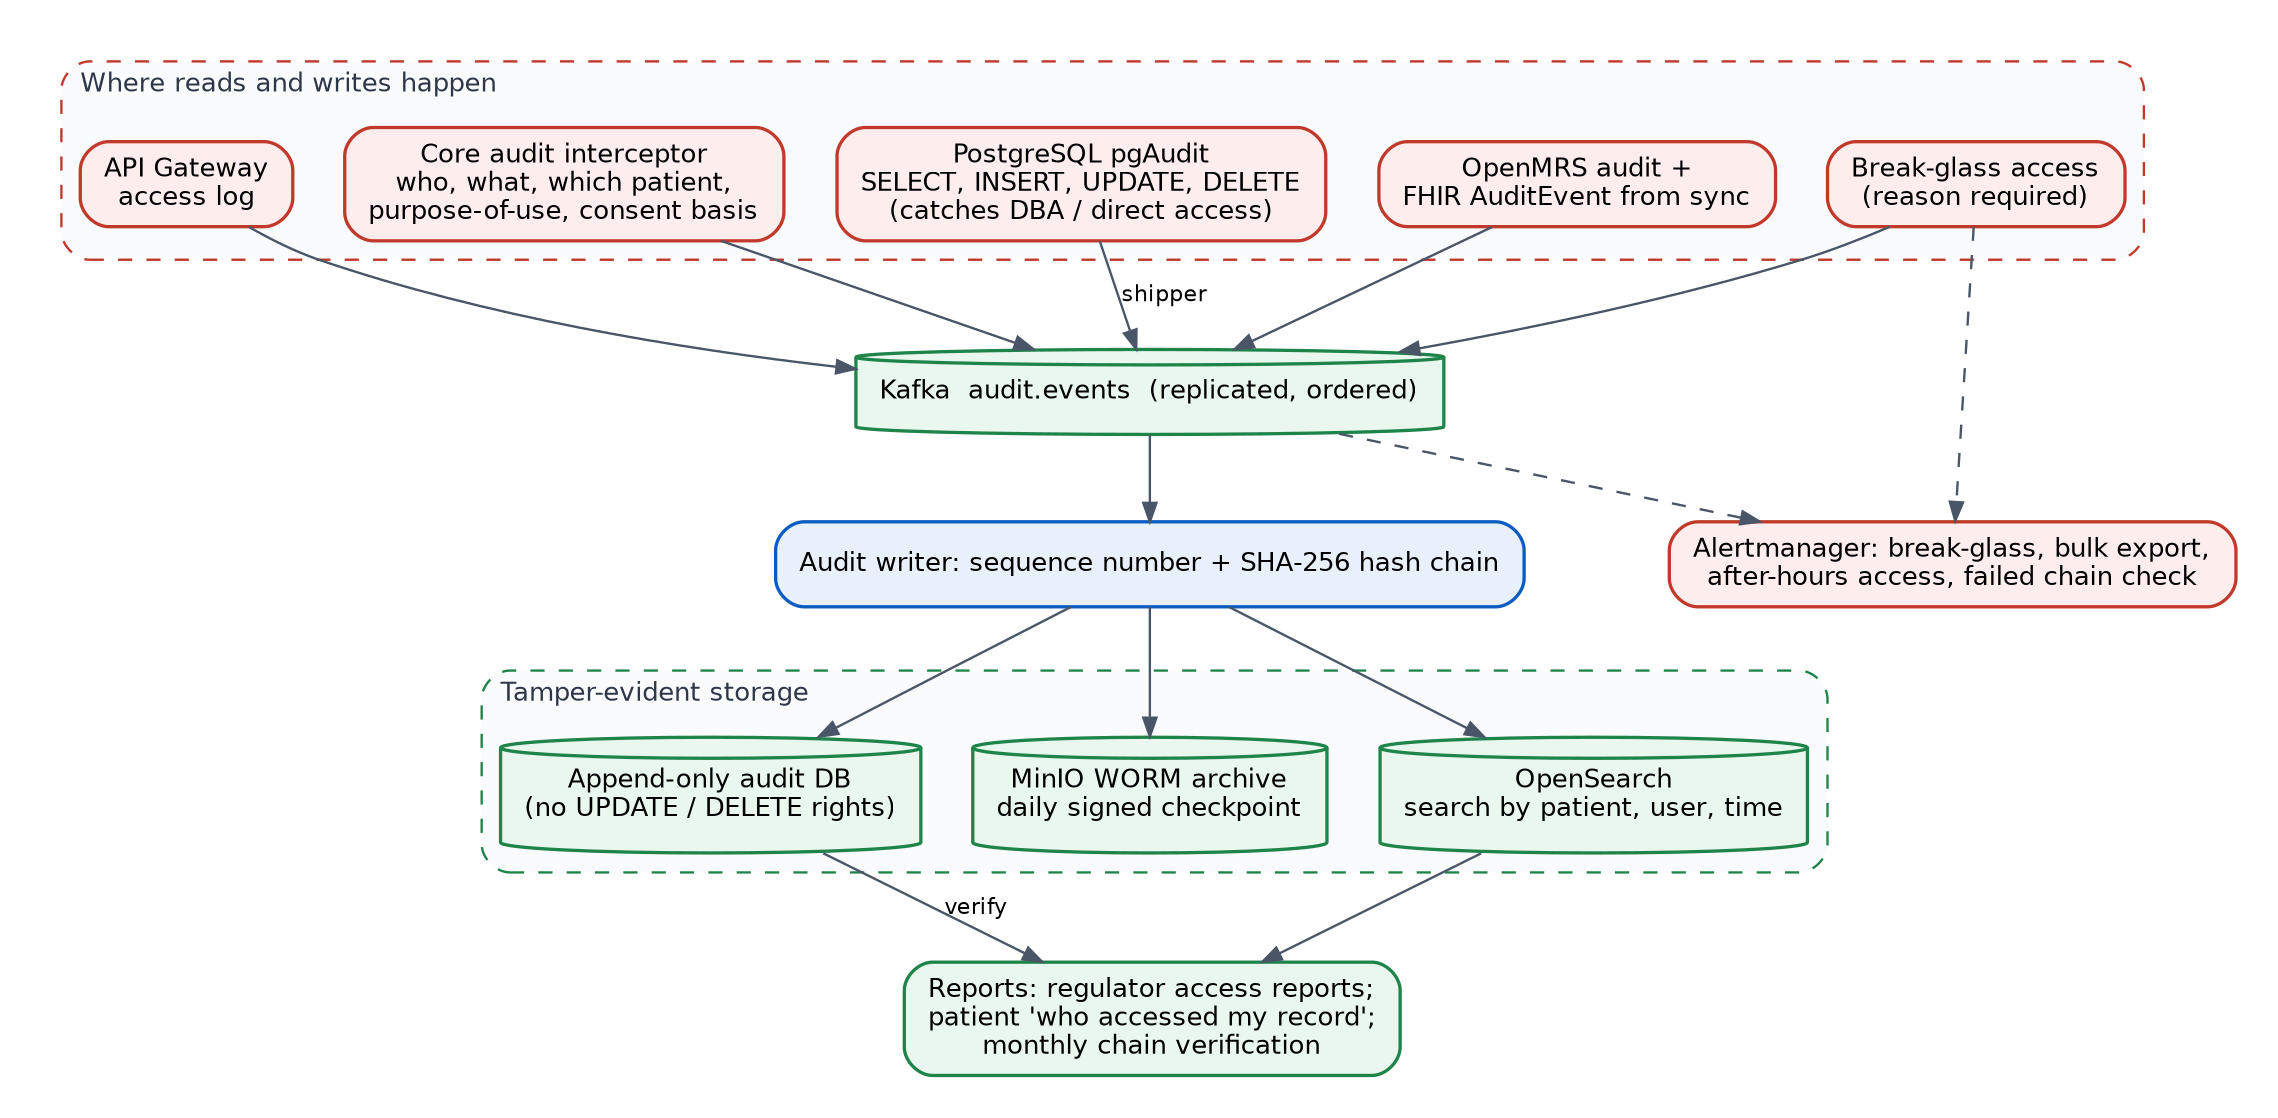
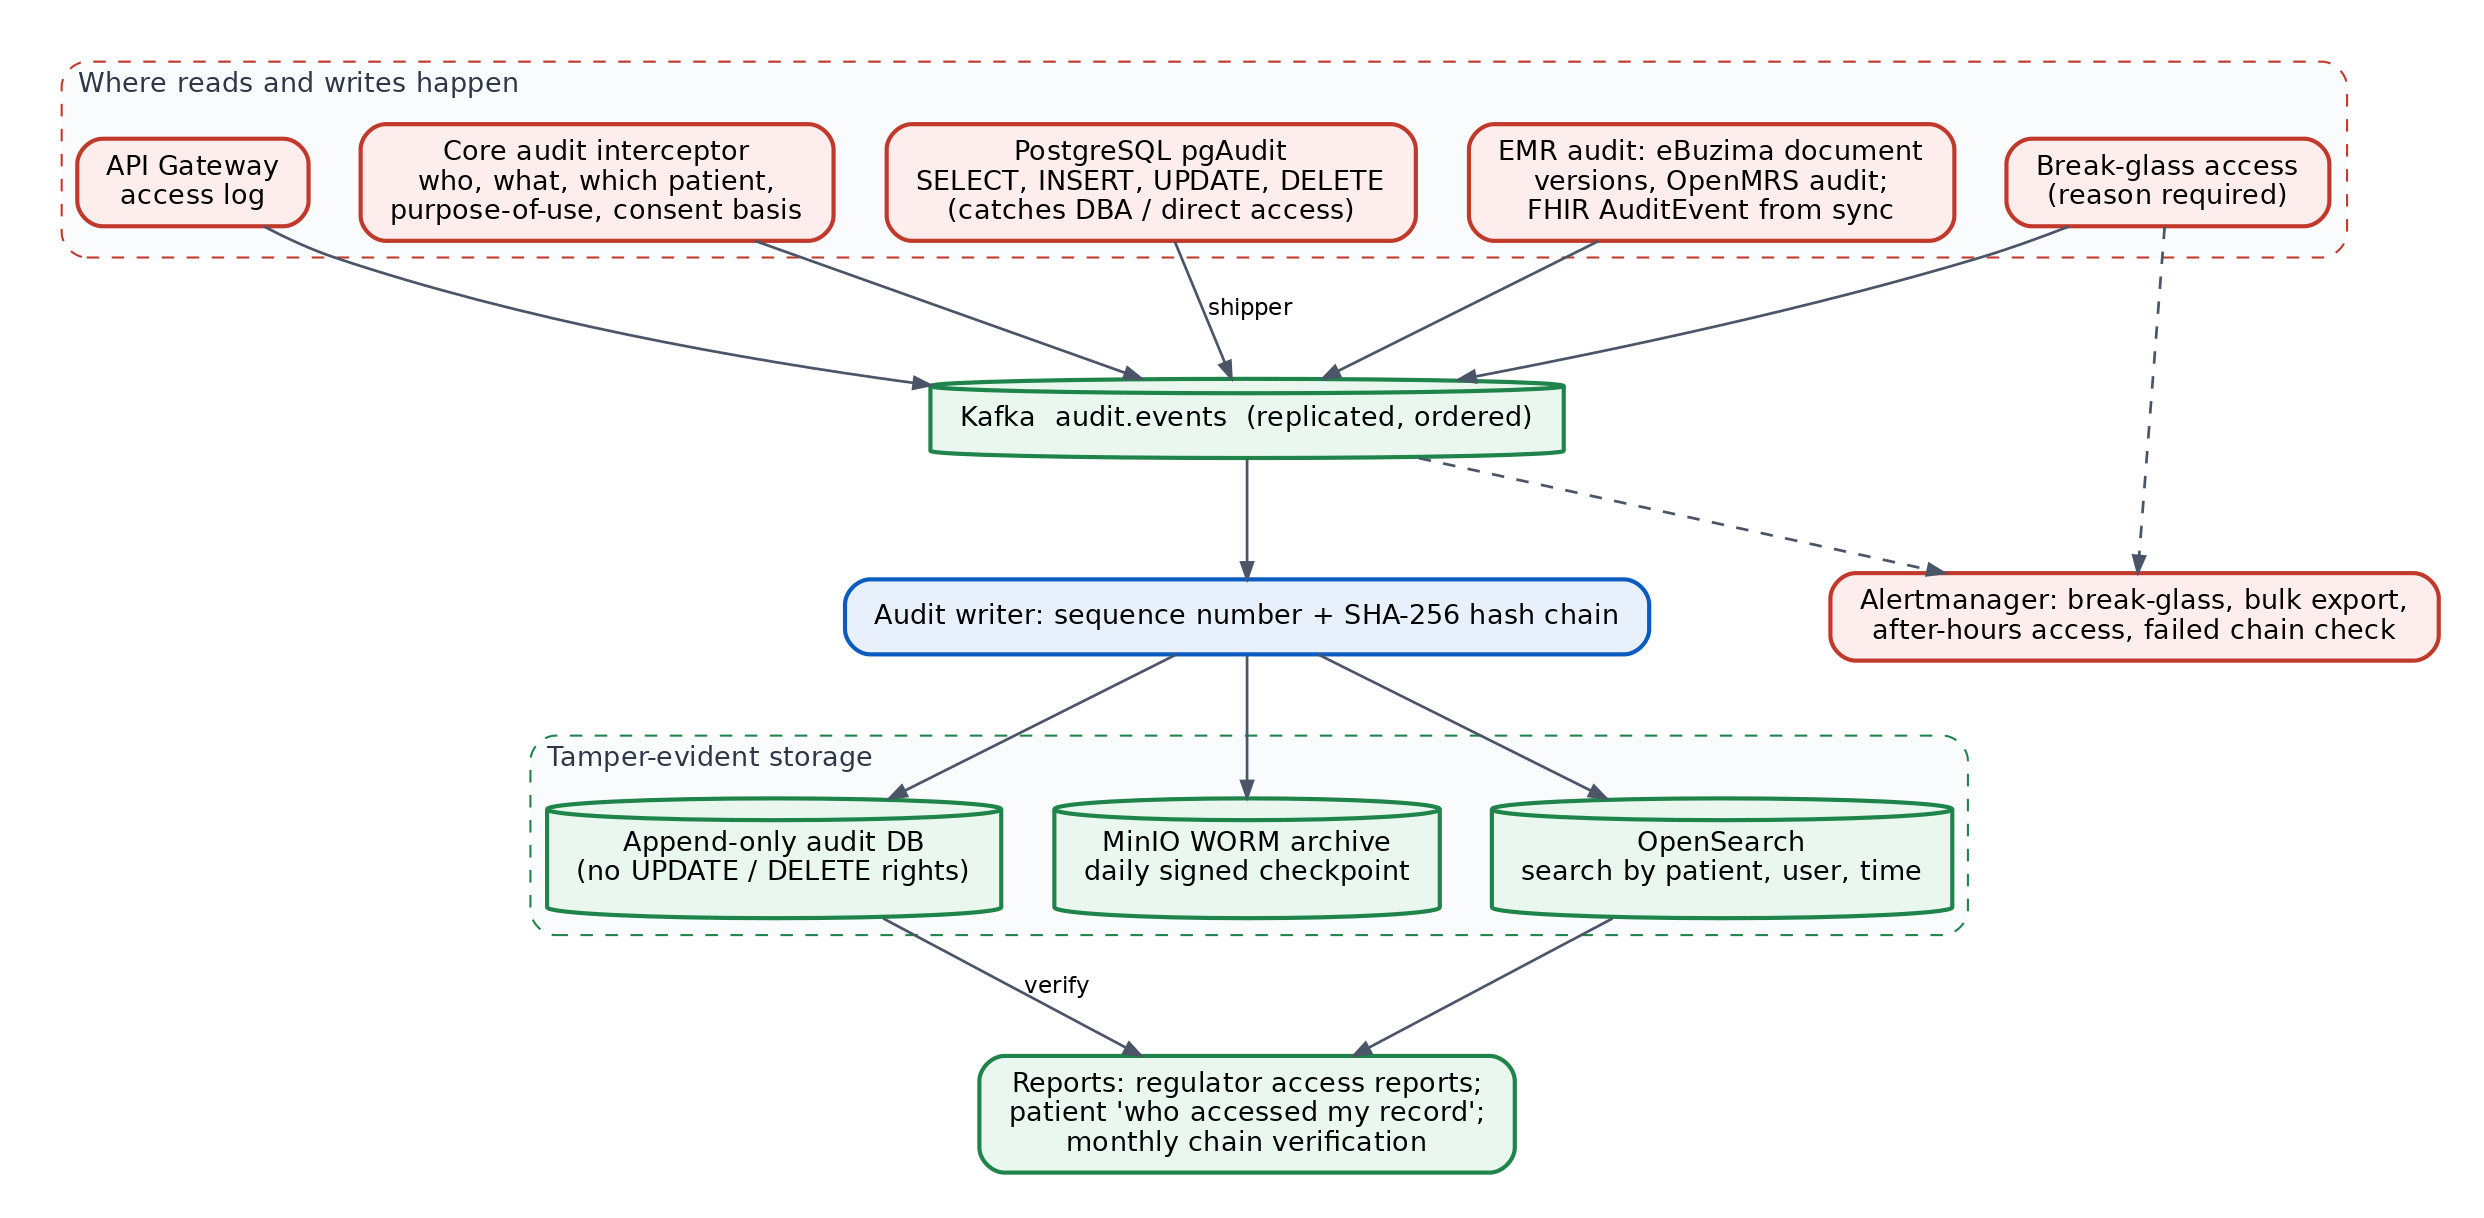
Diagrams: bring the folder in line with design document v1.3
Figures 1, 8, 9 and 13 redrawn for eBuzima and the hospital OpenMRS,
labels fixed on figures 2 and 4. Sources and the label patch script are
in diagrams/src, and a README maps each file to its figure.

diff --git a/diagrams/src/fig08_sync.py b/diagrams/src/fig08_sync.py
@@ -1,0 +1,65 @@
+"""Figure 8 (sync gateway data flow): writes fig08_sync.dot with a fixed layout, renders it with neato -n2.
+
+Run from diagrams/src; it writes ../d05_sync.png."""
+import subprocess
+
+POS = {  # centre of each node, in points
+    "change": (125, 650), "route": (125, 530), "queue": (440, 530), "ledger": (125, 360),
+    "inproc": (440, 240), "model": (125, 110), "dlq": (440, 80),
+    "w1": (790, 640), "w2": (790, 500), "w3": (790, 330), "w4": (790, 190),
+    "ebz": (1170, 570), "omrs": (1170, 260),
+}
+PANELS = {"corebg": (10, 30, 615, 730), "gwbg": (650, 30, 930, 730)}  # x0, y0, x1, y1
+
+BLUE = 'color="#0B5CC0", fillcolor="#E8F1FB"'
+GREEN = 'shape=cylinder, style=filled, color="#1E8449", fillcolor="#E9F7EF"'
+GREY = 'color="#666666", fillcolor="#F1F1F1"'
+NODES = {
+    "change": ("Clinical change\\nor identity link", BLUE),
+    "route": ("Route by home facility\\n(level, EMR, tenant)", BLUE),
+    "queue": ("Outbound queue per EMR\\nsame transaction as the change;\\nordered, backoff, dead letter, replay", GREEN),
+    "ledger": ("Sync ledger per EMR\\nid map, version,\\nhash, origin", GREEN),
+    "inproc": ("Inbound processor\\necho drop by hash, authority\\nrules, identity matching", BLUE),
+    "model": ("Canonical\\nrelational model", GREEN),
+    "dlq": ("Conflict review queue", 'color="#C0392B", fillcolor="#FDEDEC"'),
+    "w1": ("W1  TeleClinic to eBuzima\\nconditional create; encounter\\nin the health centre's tenant", BLUE),
+    "w2": ("W2  eBuzima to TeleClinic\\nchanges since cursor,\\nDocTypes mapped to FHIR", BLUE),
+    "w3": ("W3  TeleClinic to OpenMRS\\nconditional create,\\nIf-Match update", BLUE),
+    "w4": ("W4  OpenMRS to TeleClinic\\npoll _lastUpdated\\nsince cursor", BLUE),
+    "ebz": ("eBuzima (health centres)\\none central instance,\\na tenant per centre;\\nFrappe REST + webhooks", GREY),
+    "omrs": ("Hospital OpenMRS\\none per hospital;\\nFHIR2 API", GREY),
+}
+EDGES = [
+    ("change", "route", ""), ("route", "queue", ""),
+    ("queue", "w1", 'headlabel="pull due writes", labeldistance=9, labelangle=-8'),
+    ("queue", "w3", 'headlabel="pull due writes", labeldistance=4, labelangle=-55'),
+    ("w1", "ebz", 'headlabel="write as the\\nintegration user", labeldistance=6, labelangle=-35'),
+    ("ebz", "w2", 'style=dashed, headlabel="webhook wakes it,\\nthen reads changes", labeldistance=7, labelangle=40'),
+    ("w3", "omrs", 'headlabel="write, with\\norigin tag", labeldistance=6, labelangle=-35'),
+    ("omrs", "w4", 'headlabel="changes", labeldistance=6, labelangle=30'),
+    ("w2", "inproc", 'taillabel="FHIR Patient", labeldistance=11, labelangle=-22'),
+    ("w4", "inproc", 'taillabel="FHIR Patient", labeldistance=6, labelangle=-25'),
+    ("queue", "ledger", 'style=dashed, headlabel="on success:\\nids + hash", labeldistance=7, labelangle=-40'),
+    ("inproc", "ledger", "style=dashed"),
+    ("inproc", "model", 'headlabel="apply if allowed", labeldistance=8, labelangle=30'),
+    ("inproc", "dlq", 'style=dashed, color="#C0392B", headlabel="conflict", labeldistance=3, labelangle=60'),
+]
+
+out = ['digraph G {',
+       '  graph [fontname="DejaVu Sans", bgcolor="white", pad=0.25, splines=line, outputorder=nodesfirst];',
+       '  node [fontname="DejaVu Sans", fontsize=13, shape=box, style="rounded,filled", penwidth=2, margin="0.18,0.1"];',
+       '  edge [fontname="DejaVu Sans", fontsize=11, color="#4A5568", fontcolor="#1A202C", arrowsize=0.8, penwidth=1.3];']
+labels = {"corebg": "TeleClinic Core\\l", "gwbg": "OpenFn sync gateway\\lone workflow pair per EMR\\l"}
+for k, (x0, y0, x1, y1) in PANELS.items():
+    style = ('style="rounded,filled", color="#0B5CC0", fillcolor="#F4F8FD"' if k == "corebg"
+             else 'style="rounded,dashed", color="#7F7F7F"')
+    out.append(f'  {k} [pos="{(x0 + x1) / 2},{(y0 + y1) / 2}!", width={(x1 - x0) / 72:.2f}, height={(y1 - y0) / 72:.2f}, '
+               f'fixedsize=true, label="{labels[k]}", labelloc=t, fontcolor="#2D3748", penwidth=1.5, {style}];')
+for k, (label, style) in NODES.items():
+    x, y = POS[k]
+    out.append(f'  {k} [pos="{x},{y}!", label="{label}", {style}];')
+for a, b, attrs in EDGES:
+    out.append(f'  {a} -> {b} [{attrs}];')
+out.append("}")
+open("fig08_sync.dot", "w").write("\n".join(out) + "\n")
+subprocess.run(["neato", "-n2", "-Tpng", "-Gdpi=150", "fig08_sync.dot", "-o", "../d05_sync.png"], check=True)

diff --git a/diagrams/src/patch_fig02_fig04.py b/diagrams/src/patch_fig02_fig04.py
@@ -1,0 +1,56 @@
+"""Label patches on Figures 2 and 4 (drawn with another tool; no source exists): the *_base.png images in, ../d02_container.png and ../d03b_seq_triage_pay.png out. Run from diagrams/src."""
+from PIL import Image, ImageDraw, ImageFont
+
+REG = "/usr/share/fonts/truetype/dejavu/DejaVuSans.ttf"
+BOLD = "/usr/share/fonts/truetype/dejavu/DejaVuSans-Bold.ttf"
+
+
+def text_block(draw, centre, lines, font, pitch, fill="black"):
+    cx, cy = centre
+    top = cy - pitch * len(lines) / 2
+    for i, line in enumerate(lines):
+        w = draw.textlength(line, font=font)
+        draw.text((cx - w / 2, top + i * pitch), line, font=font, fill=fill)
+
+
+def erase_text(im, box, split_x=None, right_bg=None):
+    """Remove grey text and its anti-aliasing inside a tight box; coloured pixels (lines, borders) are kept. Removed
+    pixels become white, or right_bg right of split_x (the box straddles a panel border there)."""
+    px = im.load()
+    x0, y0, x1, y1 = box
+    for x in range(x0, x1 + 1):
+        for y in range(y0, y1 + 1):
+            r, g, b = px[x, y]
+            if max(r, g, b) - min(r, g, b) < 30:
+                px[x, y] = right_bg if split_x is not None and x > split_x else (255, 255, 255)
+
+
+def erase(im, box):
+    """Fill a rectangle with the colour found at its top-left corner (the box or page background)."""
+    colour = im.getpixel((box[0], box[1]))
+    ImageDraw.Draw(im).rectangle(box, fill=colour)
+
+
+# Figure 2: the EMR box names both EMRs by level; the OpenFn link is the core's sync queue, not a Kafka topic
+im = Image.open("d02_container_base.png").convert("RGB")
+d = ImageDraw.Draw(im)
+erase(im, (1695, 892, 2078, 1092))
+text_block(d, (1886, 992), ["eBuzima (health centres,", "a tenant per centre),", "hospital OpenMRS,",
+                            "national registry /", "shared health record"], ImageFont.truetype(REG, 18), 23)
+erase_text(im, (1624, 1221, 1674, 1240), split_x=1666, right_bg=(255, 251, 243))
+f = ImageFont.truetype(REG, 16)
+d.text((1592, 1204), "sync queue", font=f, fill="#2D3748")
+d.text((1608, 1224), "(pulled)", font=f, fill="#2D3748")
+im.save("../d02_container.png")
+
+# Figure 4: the rules run inside the core (the triage module), not in a separate service
+im = Image.open("d03b_seq_triage_pay_base.png").convert("RGB")
+d = ImageDraw.Draw(im)
+fb = ImageFont.truetype(BOLD, 20)
+for top in (96, 922):
+    erase(im, (938, top, 1200, top + 90))
+    text_block(d, (1069, top + 45), ["Triage rules", "(module in the core)"], fb, 21)
+erase_text(im, (716, 296, 1032, 339))
+text_block(d, (873, 312), ["Evaluate rules in-process", "(synchronous)"], ImageFont.truetype(REG, 19), 20)
+im.save("../d03b_seq_triage_pay.png")
+print("patched")

diff --git a/diagrams/README.md b/diagrams/README.md
@@ -1,0 +1,37 @@
+# Diagrams
+
+The figures of the design document (`docs/TeleClinic_Technical_Design_Document.docx`, version 1.3), as PNG.
+
+| File | Figure in the document |
+| --- | --- |
+| `d01_context.png` | 1. System context |
+| `d02_container.png` | 2. Container diagram |
+| `d03a_seq_login.png` | 3. Integration flow, part 1: login with IremboAccount |
+| `d03b_seq_triage_pay.png` | 4. Integration flow, part 2: consent, triage and payment request |
+| `d03c_seq_confirm.png` | 5. Integration flow, part 3: payment confirmation |
+| `d03d_seq_ussd.png` | 6. USSD variant |
+| `d04_saga.png` | 7. Consultation saga states |
+| `d05_sync.png` | 8. Sync gateway data flow |
+| `d06_identity.png` | 9. Identity resolution |
+| `d07_ha.png` | 10. High-availability topology |
+| `d08_split.png` | 11. Network partition behaviour |
+| `d09_deploy.png` | 12. Blue/green release |
+| `d10_audit.png` | 13. Audit pipeline |
+| `d11_ai.png` | 14. AI triage pipeline |
+| `d12_hitl.png` | 15. Human-in-the-loop states |
+| `d13_ops.png` | 16. Observability and alerting |
+
+Updated in version 1.3, when eBuzima became the health centres' EMR beside each hospital's OpenMRS:
+figures 1, 8, 9 and 13 are redrawn from sources in `src/`, and two labels on figures 2 and 4 are corrected by a script
+(those two have no editable source). To regenerate them (Graphviz and Python with Pillow), from `src/`:
+
+```bash
+dot -Tpng -Gdpi=150 fig01_context.dot  -o ../d01_context.png
+dot -Tpng -Gdpi=150 fig09_identity.dot -o ../d06_identity.png
+dot -Tpng -Gdpi=150 fig13_audit.dot    -o ../d10_audit.png
+python3 fig08_sync.py          # fixed layout, rendered with neato -n2: ../d05_sync.png
+python3 patch_fig02_fig04.py   # *_base.png in: ../d02_container.png, ../d03b_seq_triage_pay.png
+```
+
+The figures show the production design. Where the reference implementation in this repository differs (one machine,
+no Keepalived, metrics only, no write-once archive), Appendix D of the document says so.
